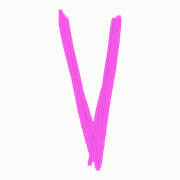
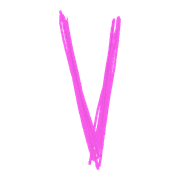
O mne: fotka a čierny menší text; karta v Safari ako v Chrome (celý názov, V bez pozadia)

Changed region(s): [[0.3056, 0.0556, 0.6944, 0.9722]]

diff --git a/src/pages/About.jsx b/src/pages/About.jsx
@@ -19,7 +19,7 @@ export default function About() {
 
       <div className="mt-14 grid grid-cols-1 gap-12 md:mt-24 md:grid-cols-[minmax(0,1fr)_minmax(240px,28vw)] md:gap-16">
         <div className="min-w-0">
-          <p className="m-0 max-w-[1000px] text-[clamp(24px,7vw,40px)] font-black uppercase leading-[.95] tracking-[-.05em] md:text-[clamp(26px,2.9vw,52px)]">{about.bio}</p>
+          <p className="m-0 max-w-[1000px] text-[clamp(20px,5.6vw,32px)] font-black uppercase leading-[.95] tracking-[-.05em] text-ink md:text-[clamp(20px,2.2vw,40px)]">{about.bio}</p>
 
           <dl className="mt-12 grid grid-cols-1 gap-8 md:mt-20 md:grid-cols-2 md:gap-x-10 md:gap-y-12 xl:grid-cols-4">
             {/* Zameranie = kategórie webu vo svojich farbách, každá vedie na svoju sekciu v ALL */}
@@ -52,8 +52,8 @@ export default function About() {
 
         <figure className="m-0 md:sticky md:top-28 md:self-start">
           {aboutData.photo
-            ? <img src={aboutData.photo} alt={about.name} className="block aspect-[4/5] w-full object-cover" />
-            : <div role="img" aria-label={about.name} className="aspect-[4/5] w-full bg-[#d9d9d4]" />}
+            ? <img src={aboutData.photo} alt={about.name} className="block aspect-square w-full object-cover" />
+            : <div role="img" aria-label={about.name} className="aspect-square w-full bg-[#d9d9d4]" />}
         </figure>
       </div>
     </main>

diff --git a/index.html b/index.html
@@ -4,12 +4,13 @@
     <meta charset="UTF-8" />
     <meta name="viewport" content="width=device-width, initial-scale=1.0" />
 
-    <link rel="icon" href="/favicon.ico" sizes="16x16 32x32 48x48" />
-    <link rel="icon" type="image/png" sizes="32x32" href="/favicon-32.png" />
-    <link rel="icon" type="image/png" sizes="192x192" href="/icon-192.png" />
-    <link rel="apple-touch-icon" sizes="180x180" href="/apple-touch-icon.png" />
+    <link rel="icon" href="/favicon.ico?v=3" sizes="16x16 32x32 48x48" />
+    <link rel="icon" type="image/png" sizes="32x32" href="/favicon-32.png?v=3" />
+    <link rel="icon" type="image/png" sizes="192x192" href="/icon-192.png?v=3" />
+    <link rel="apple-touch-icon" sizes="180x180" href="/apple-touch-icon.png?v=3" />
 
-    <title>VIKINDELA — Designer</title>
+    <!-- Nedeliteľné medzery okolo pomlčky: Safari inak „VIKINDELA —“ z názvu karty skryje (berie to ako meno webu) -->
+    <title>VIKINDELA&nbsp;—&nbsp;Designer</title>
     <meta name="description" content="Portfolio módneho dizajnéra a kreatívneho riaditeľa. Fashion, editorial, objekty a kreatívne projekty." />
 
     <meta property="og:title" content="VIKINDELA" />

diff --git a/src/data/siteContent.js b/src/data/siteContent.js
@@ -34,7 +34,7 @@ export const contactData = {
 // `photo` – portrét (napr. '/about-portrait.jpg' v /public); kým je null, ukáže sa šedý rámik.
 // `sections` – bloky pod textom (štúdium, skúsenosti…); každý má nadpis a riadky. Blok môžeš pridať aj zmazať.
 export const aboutData = {
-  photo: null,
+  photo: '/about-portrait.jpg',
   en: {
     name: 'VIKTÓRIA KUBINCOVÁ',
     bio: 'A SHORT TEXT ABOUT ME IS COMING SOON – WHO I AM, WHAT I DO AND WHAT DRIVES MY WORK.',
